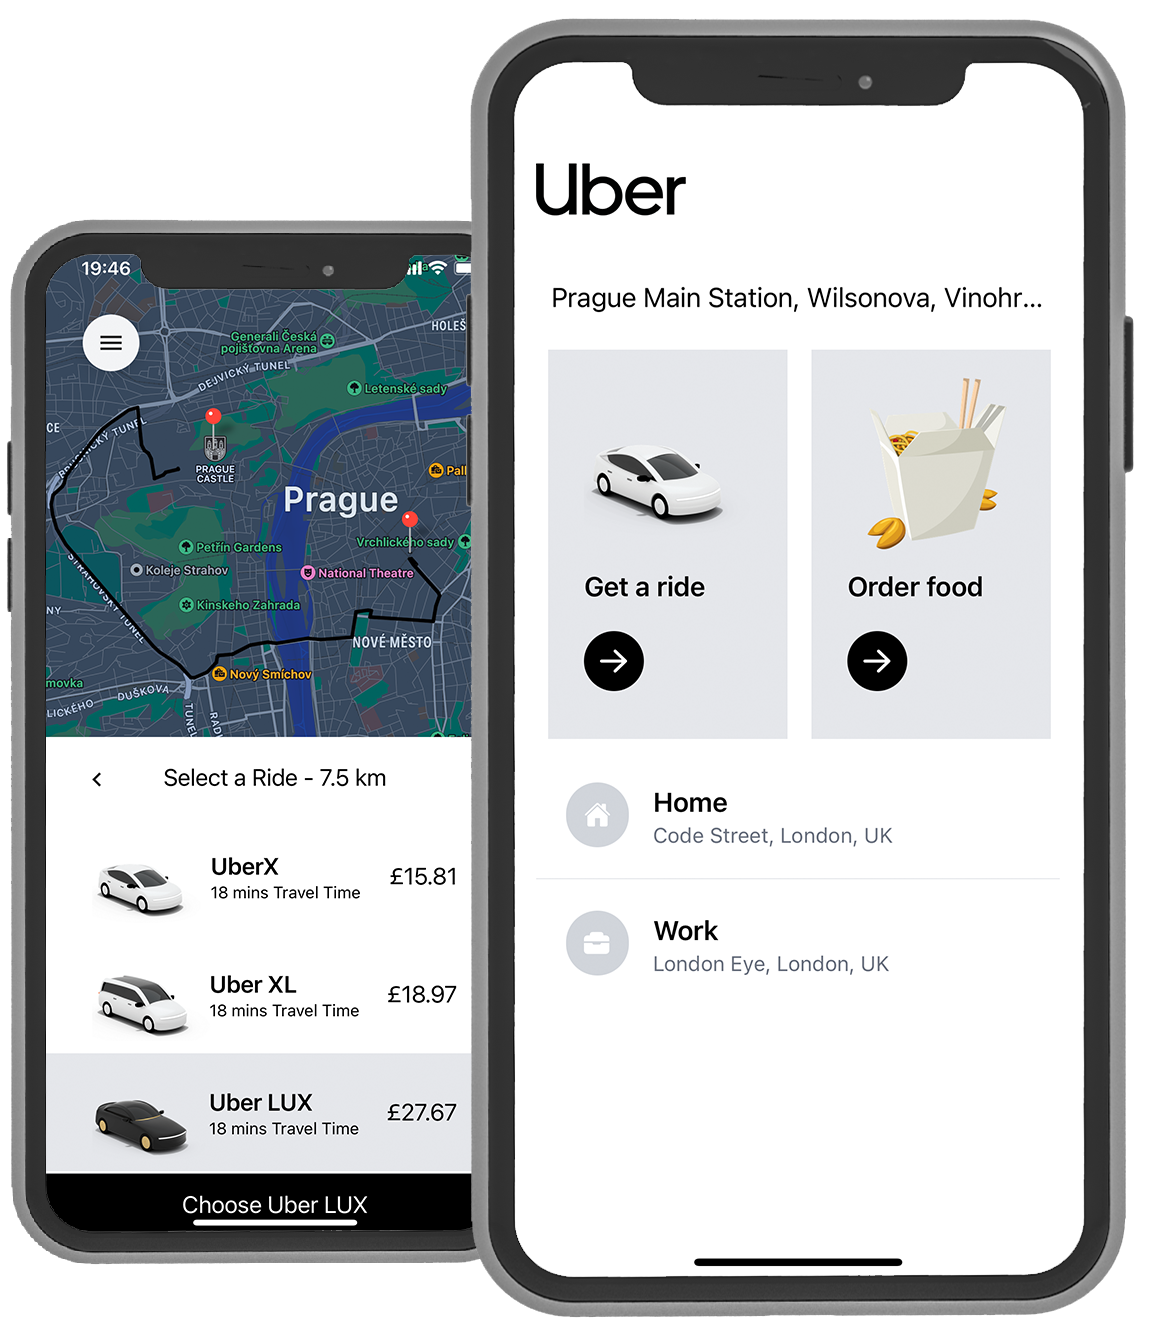
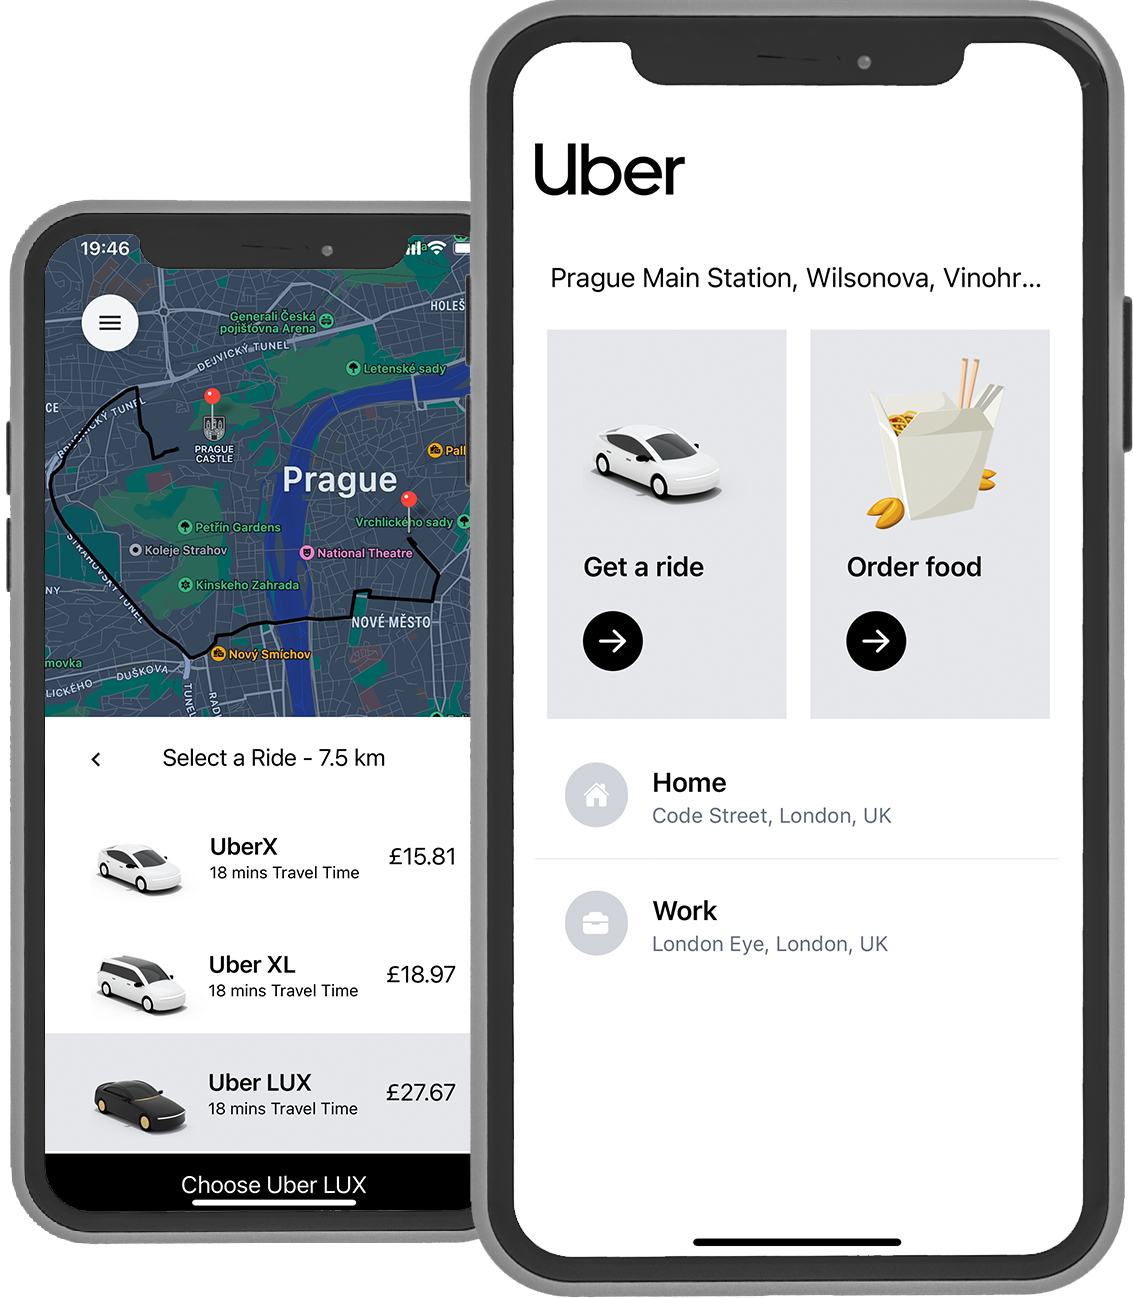
ui fixes

diff --git a/pages/index.js b/pages/index.js
@@ -61,8 +61,6 @@ const PageOne = () => (
 
 const PageTwo = () => (
   <div className="section">
-    <Navbar />
-
     <div className="clean">
       <h2 className="clean-text">*even without any UI libraries</h2>
       <Image src="/clean.png" alt="Clean UI" width={1000} height={1000} />
@@ -71,8 +69,8 @@ const PageTwo = () => (
       <Image
         src="/shop1.png"
         alt="e-commerce store"
-        width={2560}
-        height={1440}
+        width={2560 * 1.4}
+        height={1440 * 1.4}
       />
     </div>
 
@@ -116,8 +114,8 @@ const PageThree = () => (
       <Image
         src="/iphones.png"
         alt="iPhone app with Uber-clone"
-        width={1154}
-        height={1324}
+        width={1154 / 1.5}
+        height={1324 / 1.5}
       />
     </div>
   </div>
@@ -129,7 +127,12 @@ const PageFour = () => (
 
     <h2 className="misc-text">Bots, parsers, data pipelines</h2>
     <div className="misc">
-      <Image src="/miscpage.png" alt="Chat bots" width={1796} height={1035} />
+      <Image
+        src="/miscpage.png"
+        alt="Chat bots"
+        width={1796 / 2}
+        height={1035 / 2}
+      />
     </div>
   </div>
 );
